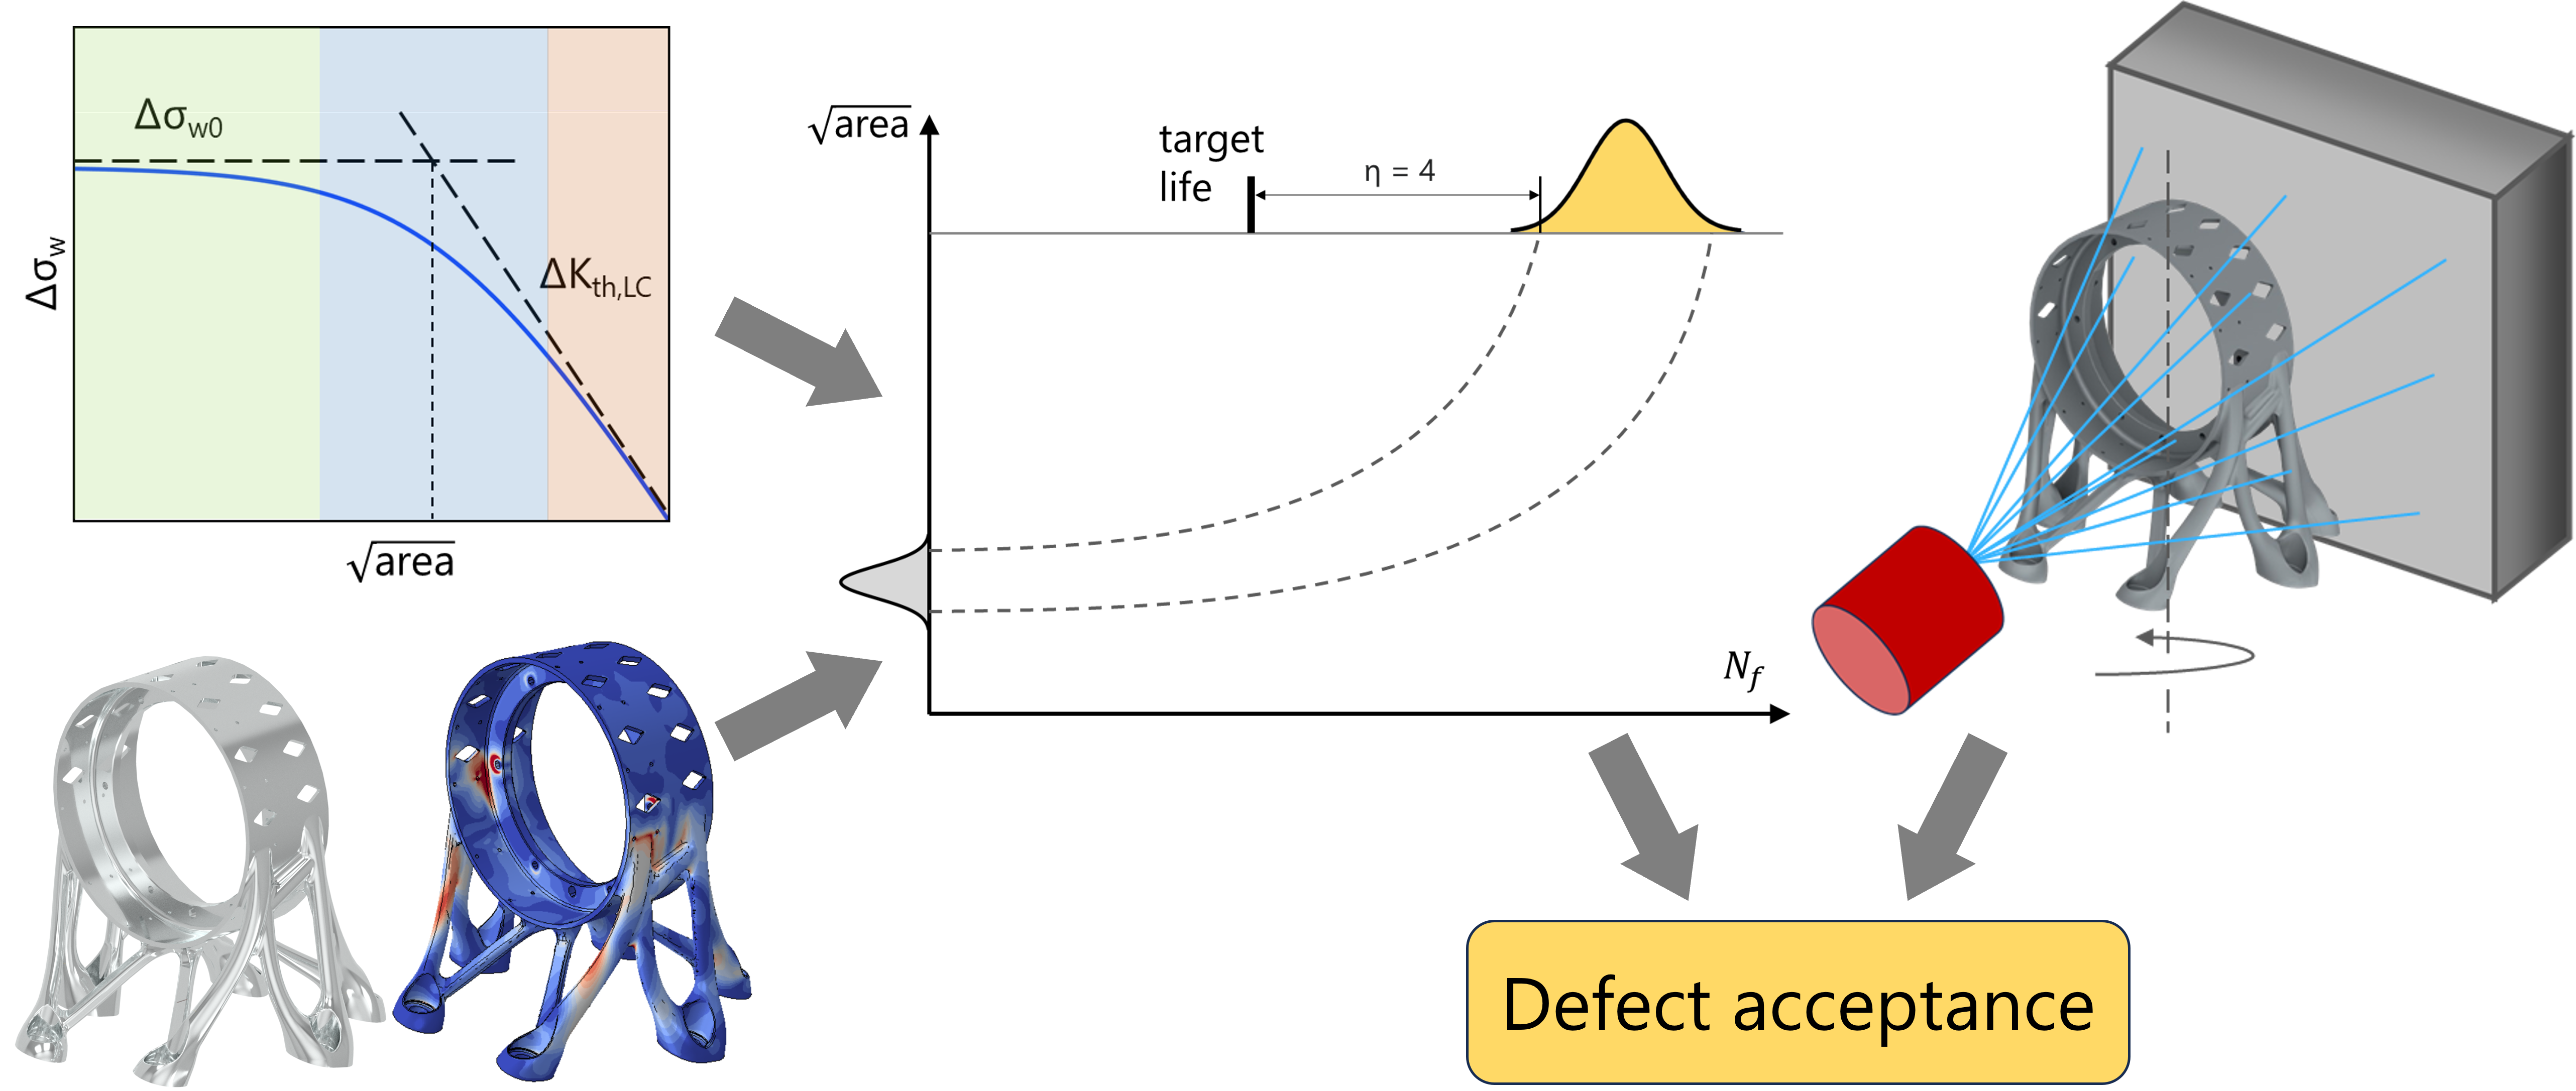
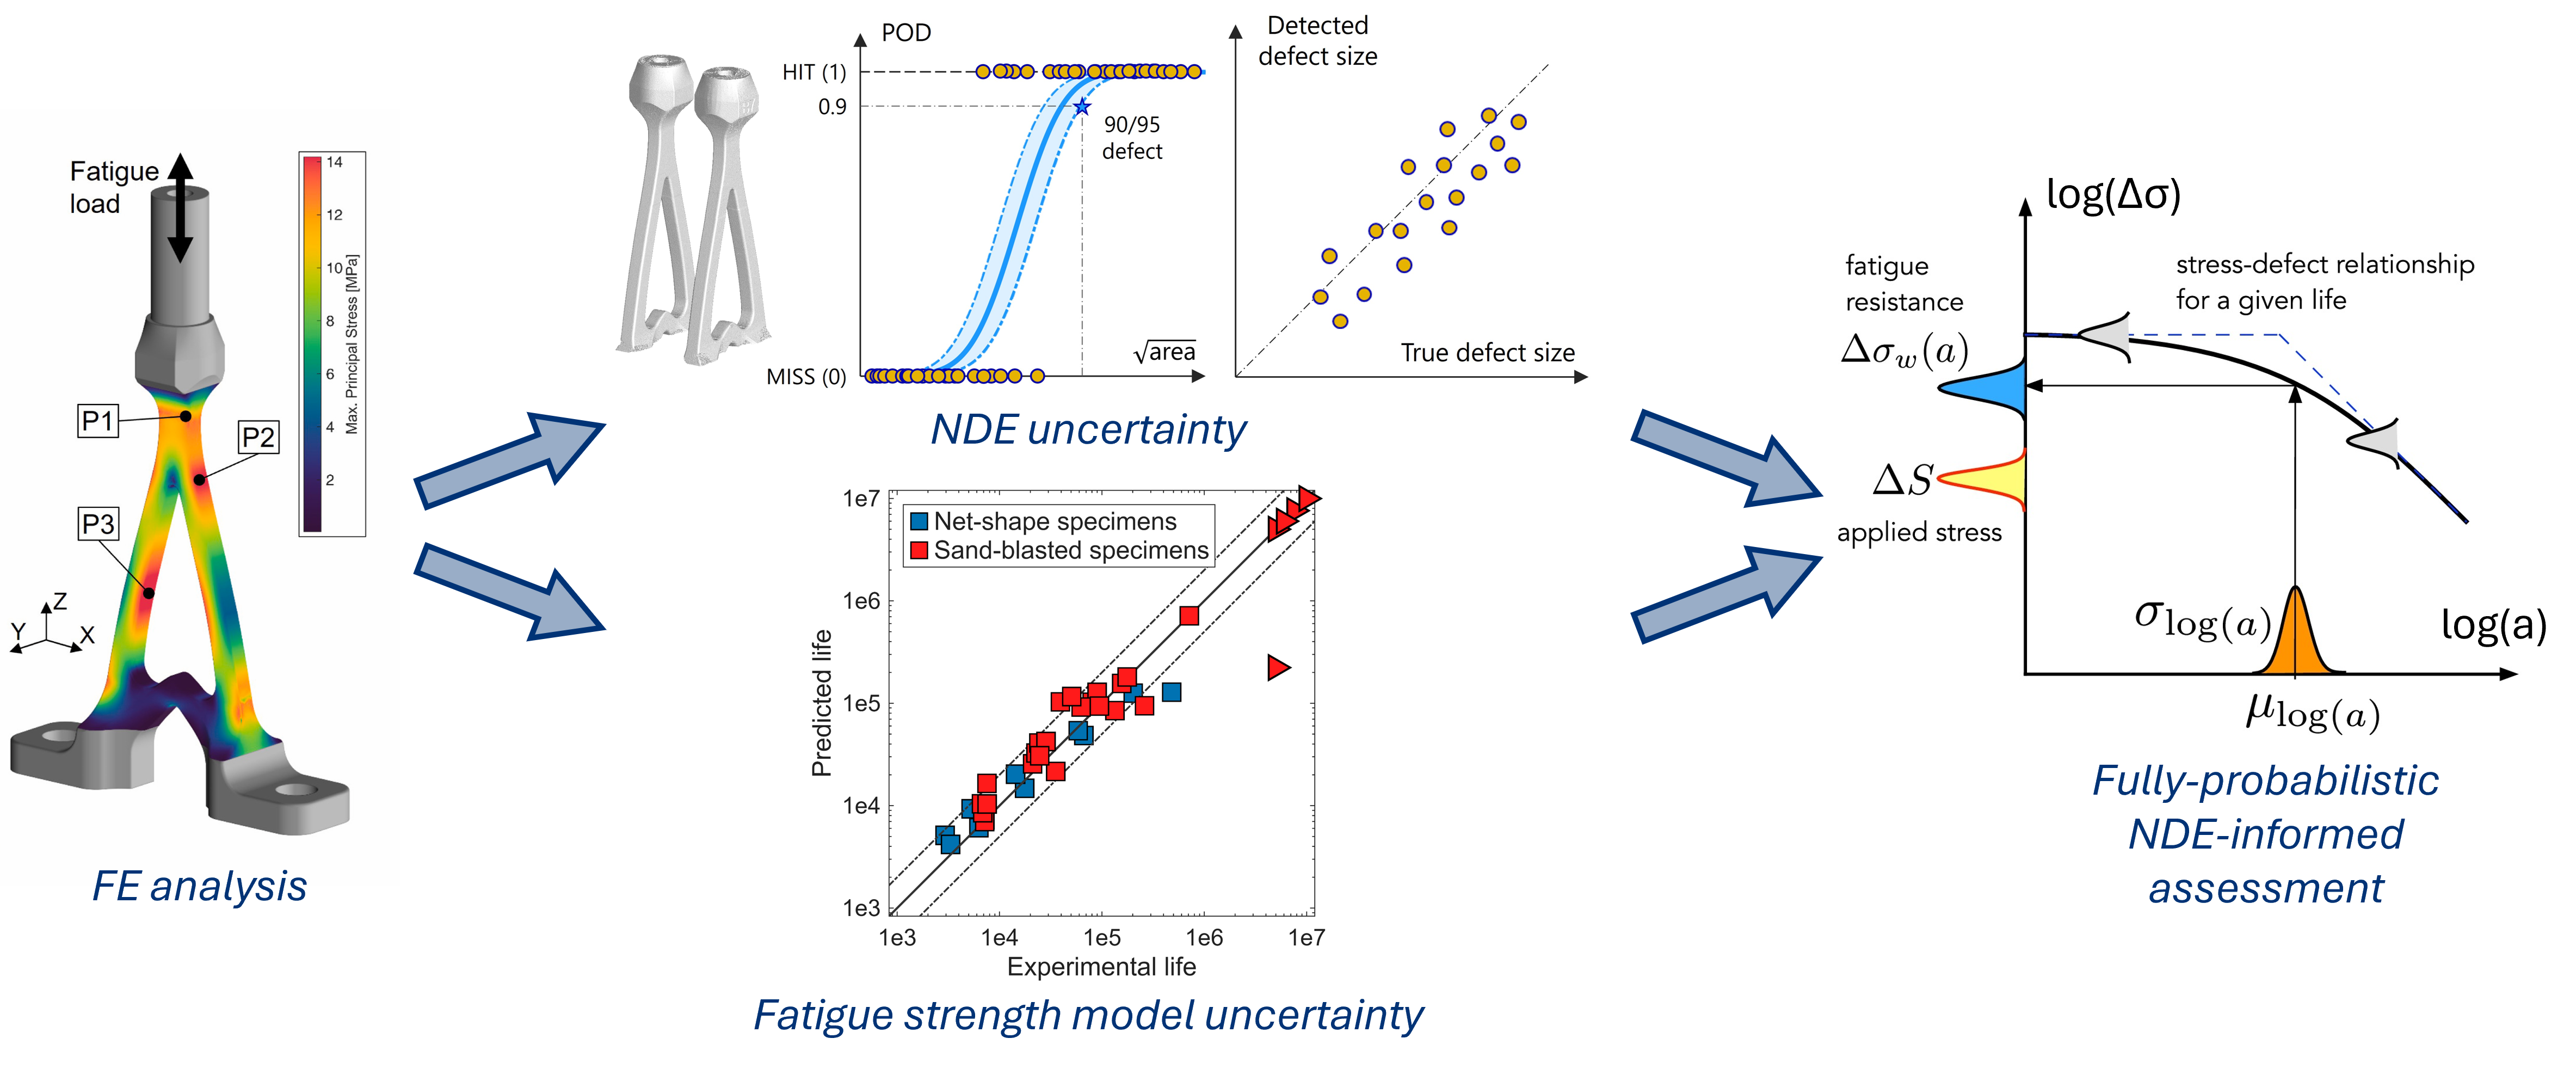
Update smart page

diff --git a/smart/index.md b/smart/index.md
@@ -5,20 +5,22 @@ layout: default
 # Smart-ProFACE
 
 Smart-ProFACE is the latest concept under development since 2022. The new software will be capable of generating ***defect acceptance maps*** representing the **maximum defect size** that can be accepted in a component.
- 
+
+Smart-ProFACE will be a finite element post-processor with the ability to interpret *non-destructive evaluation (NDE)* data to perform life assessments.
+NDE-based assessments allow the evaluation of process-escape anomalies, defects generated by sub-optimal manufacturing conditions and that can represent harmful elements within a prospective target fatigue life.
+
 ![](images/SPF_approach.png)
 *The Smart-ProFACE approach towards defect acceptance.*
 
-Smart-ProFACE will be a finite element post-processor with the ability to interpret *non-destructive evaluation (NDE)* data to perform life assessments.
-NDE-based assessments allow the evaluation of process-escape anomalies, defects generated by sub-optimal manufacturing conditions and that can represent harmful elements within a prospective target fatigue life. This analysis can follow a *deterministic* or a *fully-probabilistic* path, in relation to the scatter of fatigue and NDE data being considered in the assessment \[1\].
+Smart-ProFACE evaluates the reliability of NDE through the probability of detection and sizing error analyses. These instruments permit to quantify the bias and scatter of the size of detected anomalies, which is directly combined in the fracture mechanics-based fatigue model.
+In combination with the uncertainty of the fatigue strength model, a component can be verified through a ***fully-probabilistic***, ***NDE-informed*** approach \[1,2\].
 
-------------------------------------------------------------------------
+-------------------------------------------------------------------------------
 ## Project
 
 Smart-ProFACE software is under development within the European Space Agency (ESA) tender *“Smart, reliable and cost-effective manufacturing and fatigue verification of mission critical structural items”*, in which Politecnico di Milano leads a consortium of European companies and research institutions, comprising The Manufacturing Technology Centre (The MTC, UK), BEAMIT S.p.a. (IT), Leonardo S.p.a. (IT) and Thales Alenia Space (FR).
 
-The project involves the manufacturing of two space components by Powder Bed Fusion – Laser Beam (PBF-LB):
-
+The project involves the manufacturing of two space components by laser powder bed fusion:
 - an Isostatic Mounting Device in Ti6Al4V, designed by Leonardo and manufactured by The MTC;
 - an Antenna Deployment and Pointing Mechanism bracket in Scalmalloy®, designed by Thales Alenia Space and manufactured by BEAMIT.
 
@@ -26,8 +28,10 @@ The project involves the manufacturing of two space components by Powder Bed Fus
 *Outlook of components that will be assessed with Smart-ProFACE.*
 
 The components will be inspected by X-ray computed tomography and the acceptance of the detected anomalies for each target life will be assessed with Smart-ProFACE software.
-  
+
 ------------------------------------------------------------------------
 ## References
 
 \[1\] Rusnati L., Yosifov M., Senck S., Hubmann R., and Beretta S. (2024) “Anomaly detection by X-ray tomography and probabilistic fatigue assessment of aluminum brackets manufactured by PBF-LB.” *Materials & Design* 248, 113467
+
+\[2\] Rusnati L., Perghem D., Miccoli S., Luzin V., Senck S., and Beretta S. (2026) “Probabilistic fatigue assessment of a demonstrator manufactured by PBF-LB in Scalmalloy®.” *International Journal of Fatigue* 212, 109771